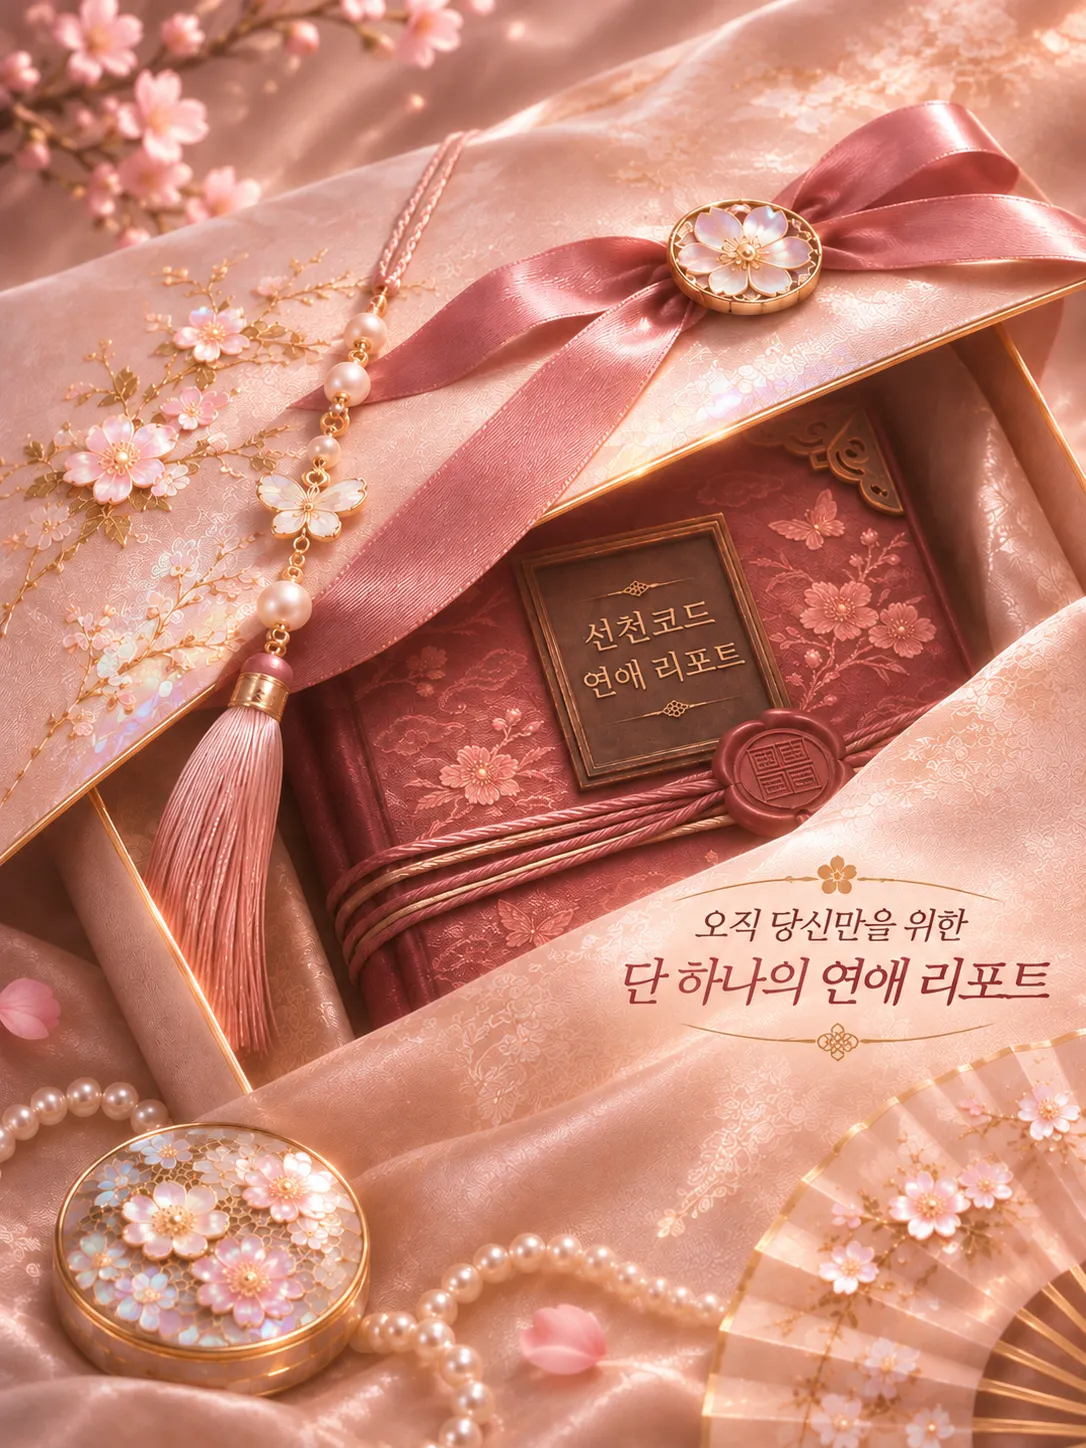
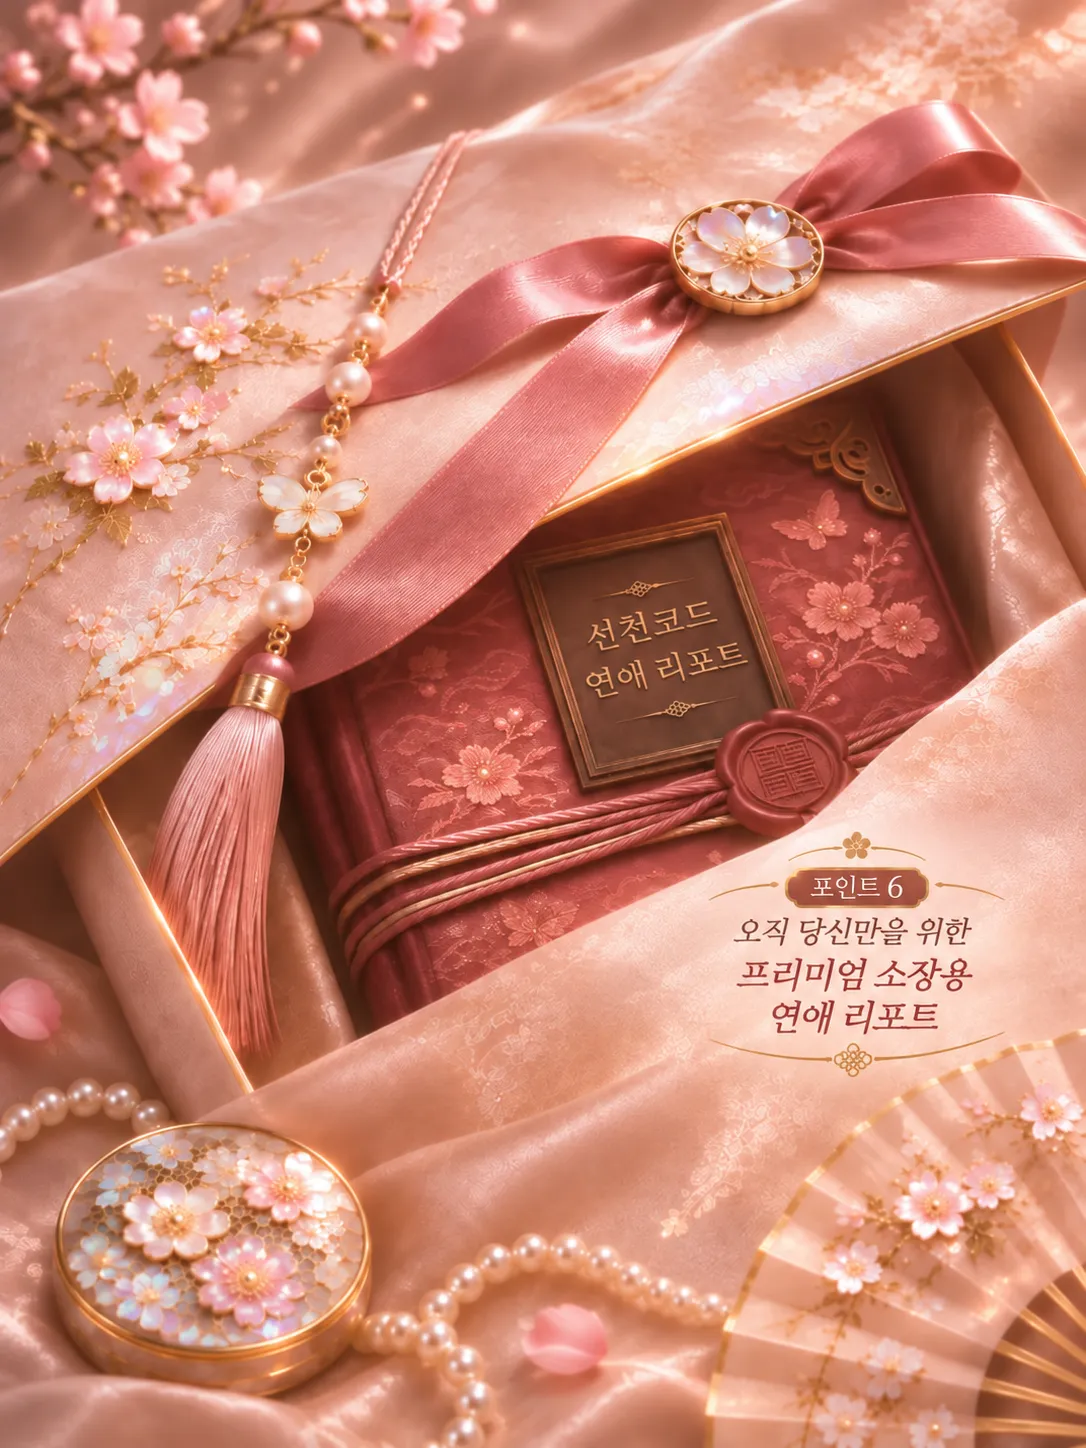
feat: 풍요 및 연애 리포트 이미지 최종 교체, 비교표 문구 수정 및 여백 조정

diff --git a/components/reports/abundance-report/WealthPersonalizedReportPoint.tsx b/components/reports/abundance-report/WealthPersonalizedReportPoint.tsx
@@ -10,7 +10,7 @@ interface WealthPersonalizedReportPointProps {
 }
 
 export default function WealthPersonalizedReportPoint({
-  imageSrc = '/images/abundance/wealth-point04-personalized-report.webp'
+  imageSrc = '/images/abundance/wealth-report-point04-personalized.webp'
 }: WealthPersonalizedReportPointProps) {
   const [imageError, setImageError] = useState(false)
 
@@ -33,7 +33,7 @@ export default function WealthPersonalizedReportPoint({
   ]
 
   return (
-    <section id="point-04-personalized" className="mt-[60px] sm:mt-20 lg:mt-[104px] mb-14 md:mb-18 scroll-mt-28 md:scroll-mt-36 w-full max-w-[1280px] mx-auto">
+    <section id="point-04-personalized" className="mt-[64px] sm:mt-[88px] lg:mt-[120px] mb-14 md:mb-18 scroll-mt-28 md:scroll-mt-36 w-full max-w-[1280px] mx-auto">
       <Reveal className="w-full">
         {/* 모바일 전용 상단 헤드카피 (데스크톱에서는 숨김) */}
         <div className="lg:hidden text-center sm:text-left mb-8 space-y-2.5 w-full max-w-[1280px] mx-auto">
@@ -116,7 +116,7 @@ export default function WealthPersonalizedReportPoint({
                   alt="POINT 04 개인 맞춤형 리포트 — 당신만을 위해 완성되는 단 하나의 선천코드 1:1 풍요 분석서" 
                   fill
                   sizes="(max-width: 1024px) 100vw, 42vw"
-                  className="object-contain transition-transform duration-700 group-hover:scale-[1.01]" 
+                  className="object-cover transition-transform duration-700 group-hover:scale-[1.01]" 
                   onError={() => setImageError(true)}
                 />
               ) : (

diff --git a/app/reports/abundance-report/page.tsx b/app/reports/abundance-report/page.tsx
@@ -218,15 +218,15 @@ export default function AbundanceReportPage() {
                   선천코드 <span className="gradient-text-abundance">풍요 리포트</span>
                 </h1>
 
-                {/* 4. 메인 가로 이미지 (16:9 비율 유지 · 글자 잘림 없는 contain 렌더링) */}
-                <div className="relative w-full max-w-[1280px] mx-auto mb-12 sm:mb-16 md:mb-20 rounded-[40px] overflow-hidden border border-[#608F82]/25 shadow-2xl aspect-[16/9] bg-[#0B1514] flex items-center justify-center">
+                {/* 4. 메인 가로 이미지 (16:9 비율 유지 · 1280 영역에 꽉 차는 object-cover 렌더링) */}
+                <div className="relative w-full max-w-[1280px] mx-auto mb-12 sm:mb-16 md:mb-20 rounded-[40px] overflow-hidden border border-[#608F82]/25 shadow-2xl aspect-[16/9] bg-[#0B1514]">
                   <Image 
                     src={ABUNDANCE_REPORT_IMAGES.hero} 
-                    alt="선천코드 풍요 리포트 메인 히어로 16:9" 
+                    alt="백도화 선천코드 풍요 리포트 히어로 이미지" 
                     width={1672}
                     height={941}
                     priority
-                    className="w-full h-full object-contain"
+                    className="w-full h-full object-cover"
                   />
                 </div>
 

diff --git a/components/reports/baekdohwa-report/SecretPrescriptionPoint.tsx b/components/reports/baekdohwa-report/SecretPrescriptionPoint.tsx
@@ -8,7 +8,7 @@ interface SecretPrescriptionPointProps {
 }
 
 export default function SecretPrescriptionPoint({
-  imageSrc = '/image/lovereport/personal%20love%20code%20seal.webp'
+  imageSrc = '/image/lovereport/the%20hidden%20love%20report.webp'
 }: SecretPrescriptionPointProps) {
   const secretFeatures = [
     {
@@ -108,10 +108,10 @@ export default function SecretPrescriptionPoint({
             <div className="relative aspect-[3/4] w-full max-w-sm sm:max-w-md lg:max-w-none mx-auto rounded-[28px] md:rounded-[36px] overflow-hidden border border-white/10 shadow-2xl bg-[#130917]">
               <Image 
                 src={imageSrc} 
-                alt="POINT 04 개인 맞춤형 리포트 봉인 도장 — 당신만을 위해 봉인된 단 하나의 선천코드 1:1 분석서" 
+                alt="오직 당신만을 위한 1:1 개인 맞춤형 연애 리포트 이미지" 
                 fill
                 sizes="(max-width: 1024px) 100vw, 42vw"
-                className="object-contain transition-transform duration-700 group-hover:scale-[1.01]" 
+                className="object-cover object-center transition-transform duration-700 group-hover:scale-[1.01]" 
               />
             </div>
           </div>

diff --git a/components/reports/abundance-report/data.ts b/components/reports/abundance-report/data.ts
@@ -169,13 +169,13 @@ export const wealthComparisonTableData = {
       baekdohwa: "질문지 기반 소비·수입 고민 반영"
     },
     {
-      feature: "03. 반복되는 소비·수입 패턴",
+      feature: "03. 소비·수입 반복 패턴",
       ai: "오늘의 금전운 수준",
       traditional: "시기 위주 해석",
       baekdohwa: "반복 패턴과 돈 누수 지점 추적"
     },
     {
-      feature: "04. 돈과 일의 관계 자기 이해",
+      feature: "04. 돈·일 관계 자기 이해",
       ai: "자기 이해 구조 부족",
       traditional: "직업·재물 적성 나열",
       baekdohwa: "나만의 재물 원형 기반 자기 이해"
@@ -187,7 +187,7 @@ export const wealthComparisonTableData = {
       baekdohwa: "실천 가능한 재정 기준과 행동 제안"
     },
     {
-      feature: "06. 소장 가능한 개인 분석서",
+      feature: "06. 소장용 개인 분석서",
       ai: "휘발성 모바일 화면",
       traditional: "구두 상담 중심 기록",
       baekdohwa: "다시 펼쳐보는 디지털 개인 리포트"

diff --git a/components/reports/baekdohwa-report/LovePrescriptionSample.tsx b/components/reports/baekdohwa-report/LovePrescriptionSample.tsx
@@ -76,10 +76,10 @@ export default function LovePrescriptionSample() {
               {/* 원본 비율/색감 그대로 유지하는 가로형 3분할 비주얼 */}
               <Image
                 src="/image/lovereport/three love prescriptions.webp"
-                alt="백도화 3대 실전 관계 처방 비주얼 (소통 처방 · 행동 처방 · 오행 개운 처방)"
+                alt="포인트 5 연애 처방전 배너 이미지"
                 width={2170}
                 height={725}
-                className="w-full h-auto block"
+                className="w-full h-auto block object-cover object-center"
                 sizes="(max-width: 768px) 100vw, (max-width: 1280px) 92vw, 1280px"
                 priority={false}
               />
